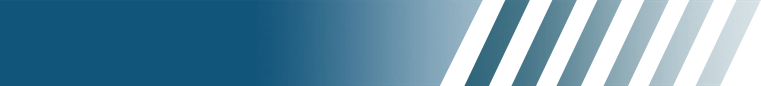
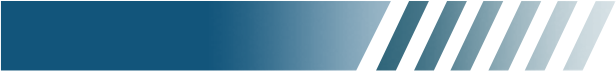
fix: 根据设计稿修改布局

Changed region(s): [[0.0, 0.0, 1.0, 0.0282], [0.0, 0.9859, 0.9562, 1.0], [0.7403, 0.2535, 0.7711, 0.3099]]

diff --git a/visualization/src/layouts/home.js b/visualization/src/layouts/home.js
@@ -7,70 +7,73 @@ import Parking from '@/views/home/parking';
 import Office from '@/views/home/office';
 import Security from '@/views/home/security';
 import Notice from '@/views/home/notice';
+import { screenSize } from '@/constants';
 
 const leftX = 77;
-const leftWidth = 761;
-const rightX = 2983;
-const rightWidth = 761;
+const leftWidth = 614;
+const rightX = 3411;
+const rightWidth = 614;
 const bottom = 78;
+const top = 152;
+const headerHeight = 152;
 
 export default {
-  size: [3840, 2160], // 设计稿尺寸，非实际尺寸
+  size: [...screenSize], // 设计稿尺寸，非实际尺寸
   components: [{
     x: 0,
     y: 0,
-    width: 3840,
-    height: 184,
+    width: screenSize,
+    height: headerHeight,
     z: 0,
     use: Header
   }, {
     x: leftX,
-    y: 234,
+    y: top,
     width: leftWidth,
-    height: 717 - 234,
+    height: 542 - top,
     z: 0,
     use: Overview
   }, {
     x: leftX,
-    y: 717,
+    y: 542,
     width: leftWidth,
-    height: 1242 - 717,
+    height: 966 - 542,
     use: Operation
   }, {
     x: leftX,
-    y: 1242,
+    y: 966,
     width: leftWidth,
-    height: 2160 - bottom - 1242,
+    height: screenSize[1] - bottom - 966,
     use: Company
   }, {
     x: 894,
-    y: 1392,
-    width: 980,
-    height: 2160 - bottom - 1392,
+    y: 1240,
+    width: 1362,
+    height: screenSize[1] - bottom - 1240,
     use: Parking
   }, {
-    x: 1925,
-    y: 1392,
-    height: 2160 - bottom - 1392,
-    width: 894,
+    x: 2380,
+    y: 1240,
+    height: screenSize[1] - bottom - 1240,
+    width: 857,
     use: Office
   }, {
     x: rightX,
-    y: 234,
+    y: top,
     width: rightWidth,
-    height: 920 - 234,
+    height: 712 - top,
     use: Consume
   }, {
     x: rightX,
-    y: 920,
+    y: 712,
     width: rightWidth,
-    height: 1546 - 920,
+    height: 1218 - 712,
     use: Security
   }, {
     x: rightX,
-    y: 1546,
+    y: 1218,
     width: rightWidth,
-    height: 2160 - bottom - 1546,
+    height: screenSize[1] - bottom - 1218,
     use: Notice
   }]
 }

diff --git a/visualization/src/views/home/parking/index.vue b/visualization/src/views/home/parking/index.vue
@@ -11,6 +11,9 @@
             <div class="label">{{ item.label }}</div>
           </div>
         </div>
+        
+      </div>
+      <div class="center">
         <div class="bottom" ref="chart"></div>
       </div>
       <div class="right">
@@ -104,7 +107,7 @@ export default {
       const value = ((this.overview.peakHours) / 24) * 240;
       const option = {
         grid: {
-          top: 10
+          bottom: 0
         },
         series: [
           {
@@ -339,10 +342,10 @@ export default {
   display: flex;
   .left {
     height: 100%;
-    width: 70%;
+    width: 40%;
     .top {
-      height: 35%;
-      margin-top: 5%;
+      height: 80%;
+      margin-top: 10%;
       display: flex;
       justify-content: space-around;
       .item {
@@ -372,43 +375,45 @@ export default {
         }
       }
     }
+  }
+  .center {
+    width: 40%;
     .bottom {
-      height: 60%;
+      height: 100%;
     }
   }
   .right {
     height: 100%;
-    width: 30%;
+    width: 20%;
     .overload {
-      height: 60%;
+      height: 50%;
       display: flex;
       flex-direction: column;
       justify-content: center;
       align-content: center;
-      padding-top: 10%;
       .img {
-        height: 65%;
+        height: 100%;
         width: 100%;
         background-image: url("./overload.png");
         background-position: center;
         background-repeat: no-repeat;
+        background-size: contain;
         display: flex;
         justify-content: center;
         align-items: center;
         font-size: var(--font-size-large);
       }
       .label {
-        padding-top: var(--font-size-small);
         text-align: center;
         font-family: SourceHanSansCN-Bold;
         font-size: var(--font-size-small);
       }
     }
     .hour {
-      height: 50%;
-      padding-top: 5%;
+      margin-top: 5%;
+      height: 45%;
       .guage {
-        height: 60%;
+        height: 70%;
         width: 100%;
       }
       .label {

diff --git a/visualization/src/views/home/security/index.vue b/visualization/src/views/home/security/index.vue
@@ -54,8 +54,9 @@ export default {
   }
   .img {
     position: relative;
-    height: 100%;
-    width: 100%;
+    margin-top: 10%;
+    height: 90%;
+    width: 90%;
     background-image: url('./img.png');
     background-position: center;
     background-repeat: no-repeat;
@@ -74,16 +75,16 @@ export default {
       }
     }
     .temperatureSensor {
-      top: calc(0px - (var(--font-size-small)));
-      left:  calc((var(--font-size-small) * 4))
+      top: calc(0px - (var(--font-size-small) * 2));
+      left:  calc((var(--font-size-small) * 5))
     }
     .monitor {
-      bottom: calc((var(--font-size-small) * 4));
-      left: calc(var(--font-size-small) * 4);
+      bottom: calc((var(--font-size-small) * 4.5));
+      left: calc(var(--font-size-small) * 1);
     }
     .smokeSensor {
-      right: calc(var(--font-size-small) * 4);
-      bottom: calc((var(--font-size-small) * 4));
+      right: calc(var(--font-size-small) * 1);
+      bottom: calc((var(--font-size-small) * 5));
     }
   }
 </style>

diff --git a/visualization/src/views/home/index.vue b/visualization/src/views/home/index.vue
@@ -33,8 +33,7 @@ export default {
 
 <style lang="less" scoped>
   .views-home {
-    // background-image: url('./bg.png');
-    background-image: url('./4096.png');
+    background-image: url('./bg.png');
     background-size: cover;
     background-repeat: no-repeat;
   }

diff --git a/visualization/src/views/home/company/index.vue b/visualization/src/views/home/company/index.vue
@@ -63,7 +63,7 @@ export default {
         legend: {
           show: true,
           orient: 'vertical',
-          right: '30%',
+          right: '20%',
           type: 'plain',
           top: 'center',
           itemWidth: baseFontSize * 2.8,

diff --git a/visualization/src/styles/vars.css b/visualization/src/styles/vars.css
@@ -30,6 +30,6 @@
   --color-card-title: white;
 
   /* 卡片标题高度 */
-  --height-card-title: 87px;
+  --height-card-title: 71px;
 
 }
